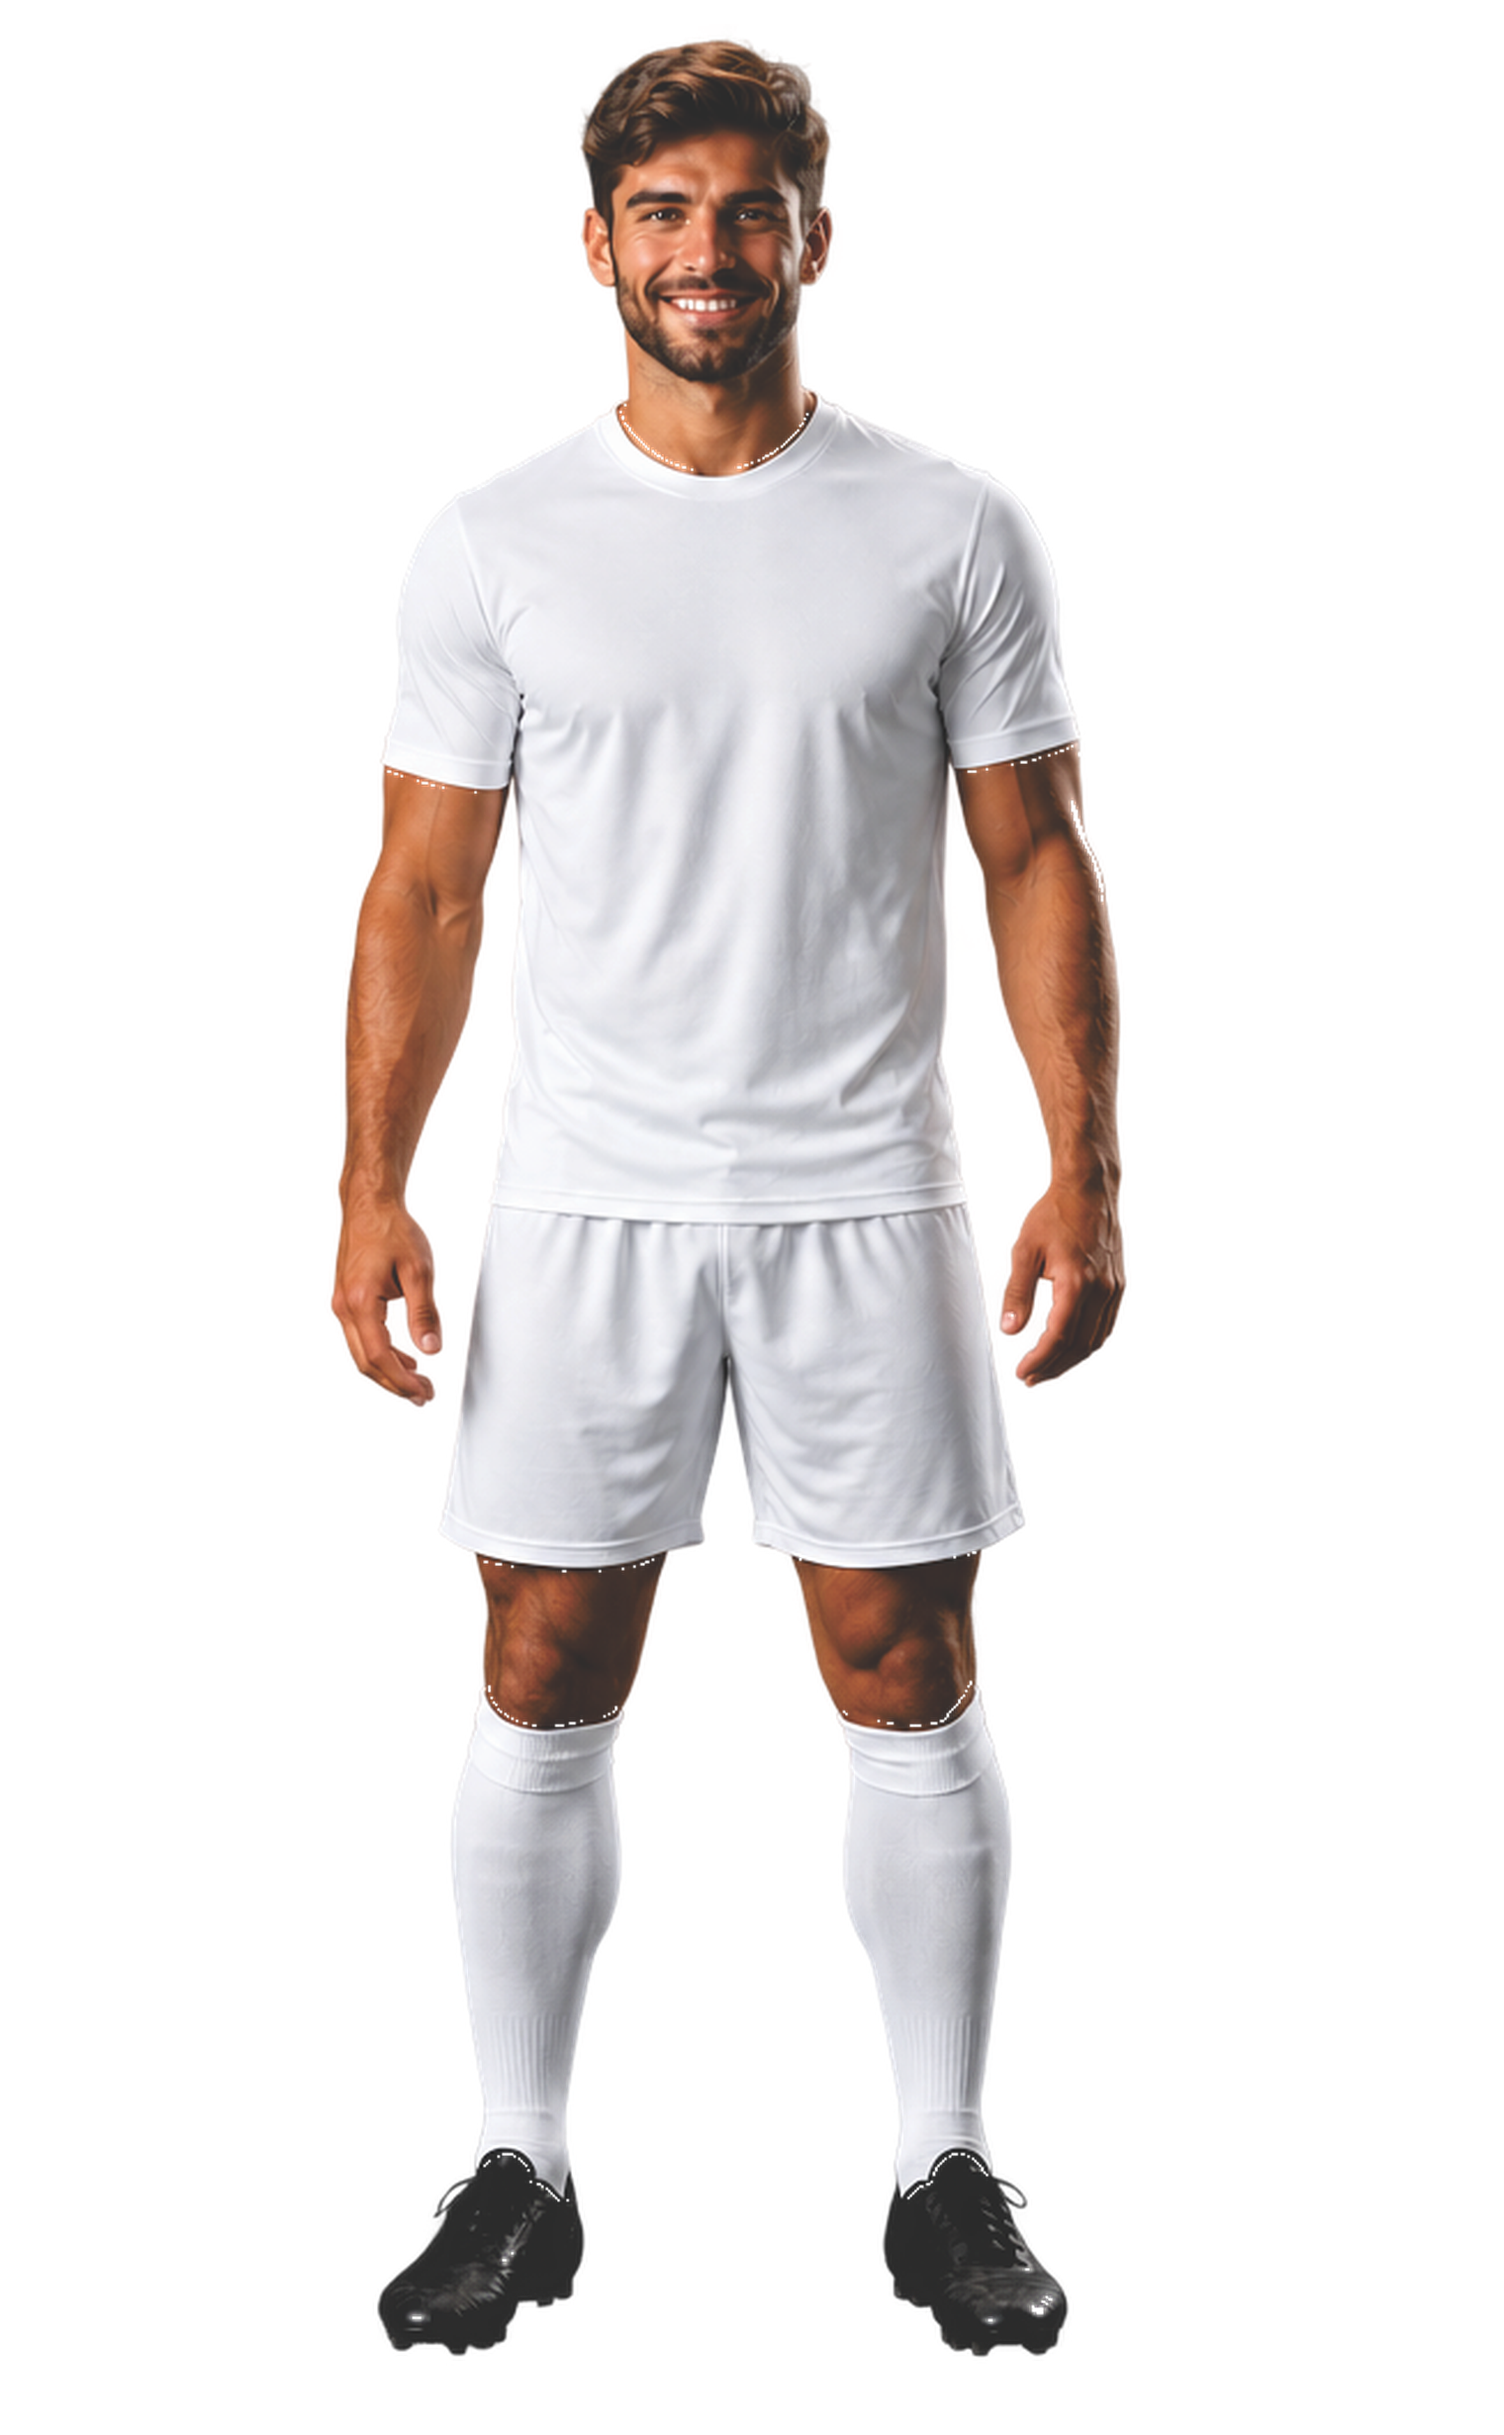
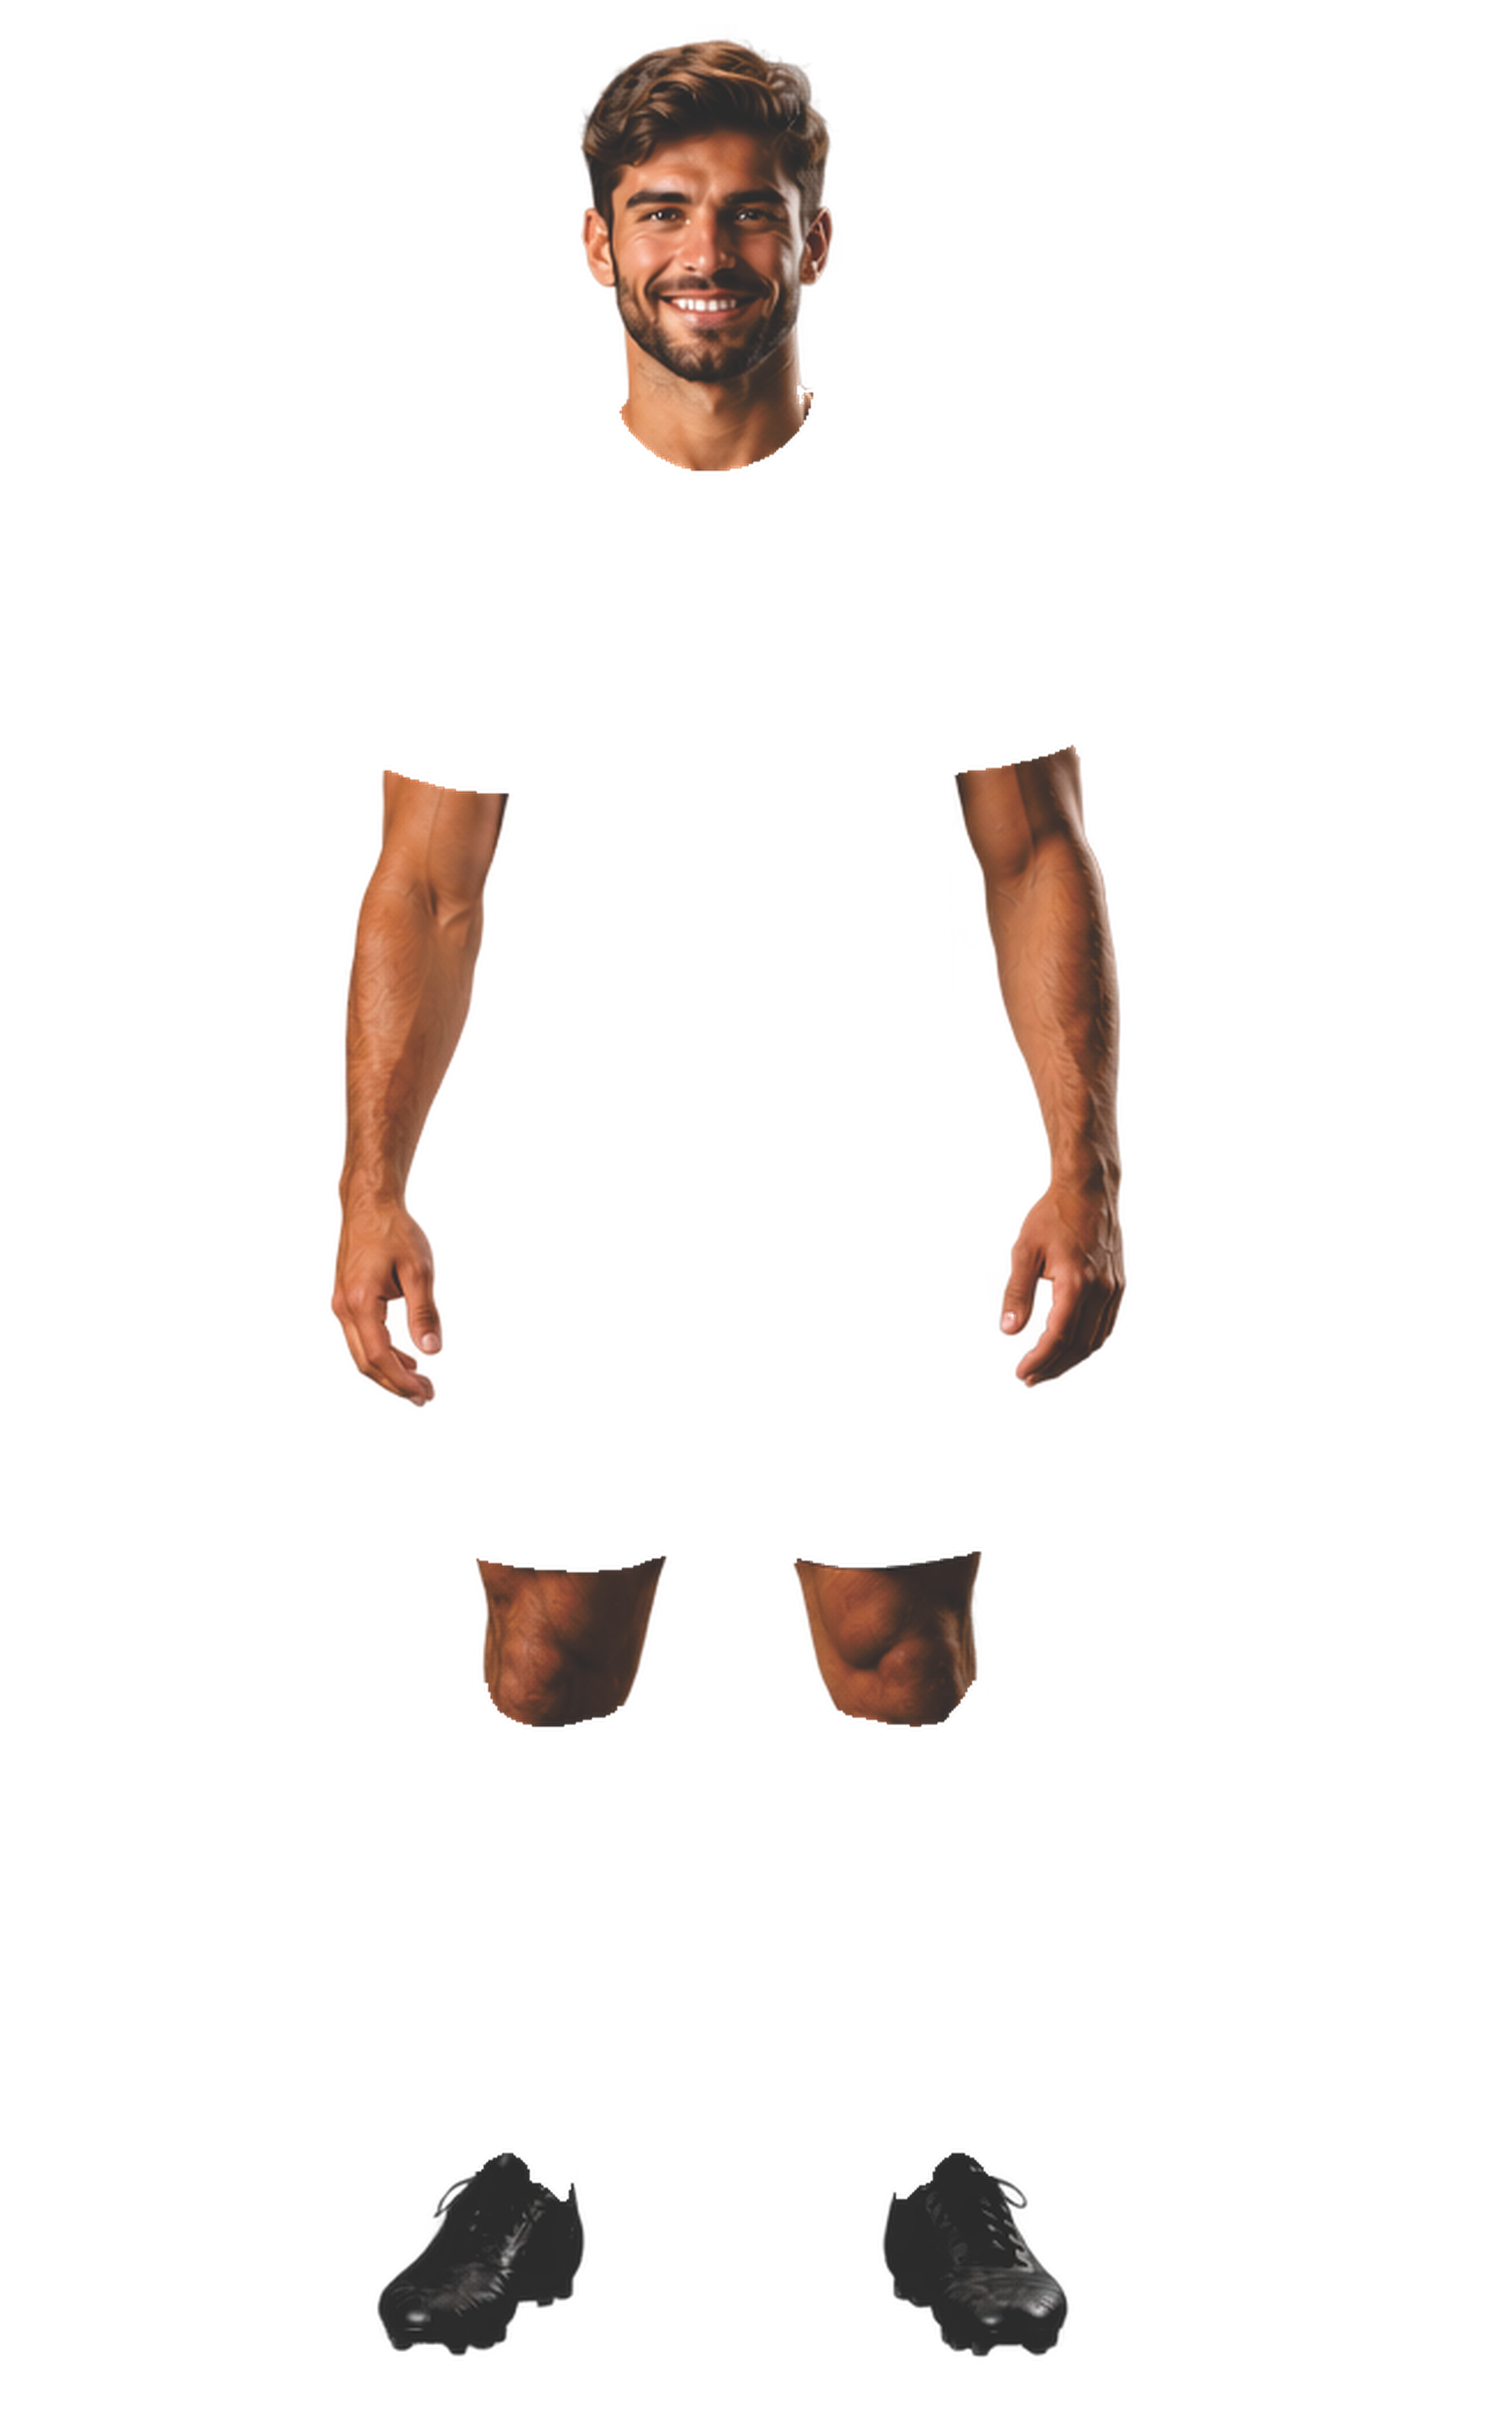
De volta à ideia original, com a técnica que faltava: inundação total
O fundo fica SEM KIT NENHUM — só pele, cabeça e chuteiras do vestido — e
cada píxel que era tecido é preenchido pela peça mais próxima, por
inundação iterativa (a peça cresce só para dentro da região do kit,
herdando as cores da própria borda, até 22 passos). Não há linha branca,
porque o kit branco desaparece todo do fundo; não há espaço fantasma,
porque toda a região de tecido é coberta por peça.

As salvaguardas que as rondas anteriores ensinaram, agora na definição
da própria região:
· ~pele: mãos, braços e joelhos nunca são removidos nem pintados — os
  brilhos claros da pele caíam na definição de "branco";
· vizinhança dos buracos (31 px): o resto do corpo nem sequer é olhado;
· abaixo do topo da gola: dentes e rosto fora do alcance.

Verificado em navy (ligações bainha↔joelho e cano↔pele perfeitas, mãos e
dedão intactos) e em cinzento claro (sem silhueta duplicada; o que resta
de claro é costura cozida no próprio webp do designer, ou seja, design).

diff --git a/scripts/montar-dino2.py b/scripts/montar-dino2.py
@@ -334,17 +334,25 @@ def montar(lado):
     colocadas.append(('gola', grande, canto))
     print(f'  gola      {via}')
 
-    # KIT VISÍVEL = tecido branco do vestido que nenhuma peça cobre. Os
-    # renders são de gerações diferentes e o kit dele é mais largo — à
-    # vista, aparecia como uma silhueta branca duplicada à volta do
-    # conjunto. Cada peça é INUNDADA nele: cresce iterativamente só para
-    # dentro desse tecido, até ele acabar (máx. ~14 px). Onde não há kit
-    # não há crescimento — o desenho da peça não deforma.
-    kit = cv2.dilate(buracos.astype(np.uint8), np.ones((5, 5), np.uint8)) \
-              .astype(bool) | (branco_vest & corpo)
+    # A ideia ORIGINAL, com a técnica que faltava: o fundo fica SEM kit
+    # nenhum (só pele, cabeça e chuteiras do vestido, à resolução máxima)
+    # e cada píxel que era tecido é preenchido pela peça mais próxima, por
+    # INUNDAÇÃO — a peça cresce iterativamente só para dentro da região do
+    # kit, herdando as cores da própria borda. Não há linha branca (o kit
+    # branco desaparece todo do fundo) nem espaço fantasma (todo o kit é
+    # coberto por peça). Salvaguardas:
+    #   · ~pele: mãos, braços e joelhos nunca são removidos nem pintados —
+    #     os brilhos claros da pele ficavam na definição de "branco";
+    #   · vizinhança dos buracos (31 px): o resto do corpo nem é olhado;
+    #   · abaixo do topo da gola: dentes e rosto fora do alcance.
+    kit = (cv2.dilate(buracos.astype(np.uint8), np.ones((5, 5), np.uint8))
+               .astype(bool) | (branco_vest & corpo))
+    kit &= cv2.dilate(buracos.astype(np.uint8),
+                      np.ones((31, 31), np.uint8)).astype(bool)
+    kit &= ~pele
     ys_buraco = np.nonzero(buracos.any(axis=1))[0]
     topo_kit = max(0, int(ys_buraco.min()) - 4) if len(ys_buraco) else 0
-    kit[:topo_kit] = False                # protege dentes e brilhos do rosto
+    kit[:topo_kit] = False
     kit_visivel = kit & ~uniao
 
     nucleo3 = np.ones((3, 3), np.uint8)
@@ -359,7 +367,7 @@ def montar(lado):
         if cy1 > cy0 and cx1 > cx0:
             alvo[cy0 - y0:cy1 - y0, cx0 - x0:cx1 - x0] = kit_visivel[cy0:cy1, cx0:cx1]
         tem = arr[..., 3] > 60
-        for _ in range(14):
+        for _ in range(22):
             crescer = cv2.dilate(tem.astype(np.uint8), nucleo3).astype(bool) & alvo & ~tem
             if not crescer.any():
                 break
@@ -375,10 +383,11 @@ def montar(lado):
         tela.save(f'{SAIDA}/vestida-{zona}-{lado}.png')
         print(f'  {zona:9s} gravada → caixa x={x}, y={y}, w={larg}, h={alt}')
 
-    # FUNDO: o vestido com o kit que ainda ficasse à vista removido — as
-    # peças inundadas já cobrem o rasto até ~14 px; isto é o resguardo
+    # FUNDO: o vestido SEM O KIT TODO — não só o que estava à vista. As
+    # peças inundadas cobrem a região; o que escapar mostra o fundo da
+    # página, nunca tecido branco.
     sem = np.array(vestido)
-    sem[kit_visivel, 3] = 0
+    sem[kit, 3] = 0
     tela, *_ = para_tela(Image.fromarray(sem), (0, 0))
     tela.save(f'{SAIDA}/jogador-{lado}.png')
 
